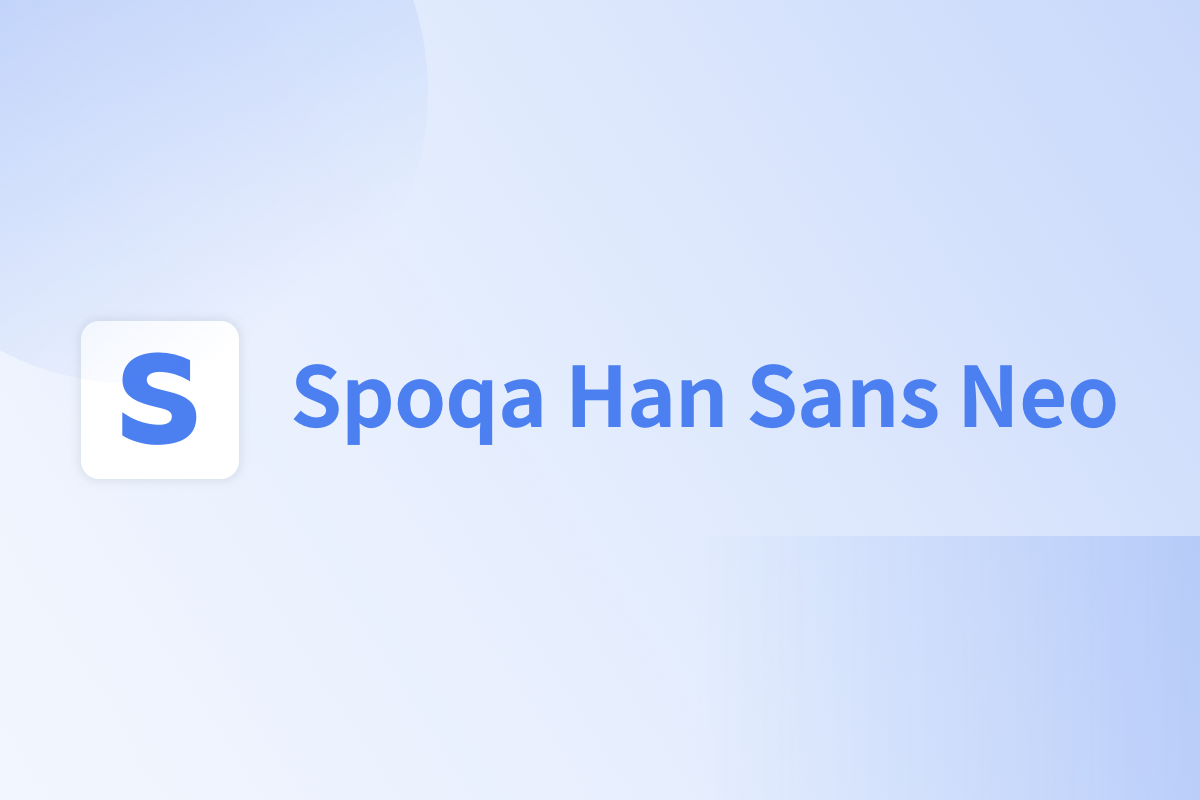
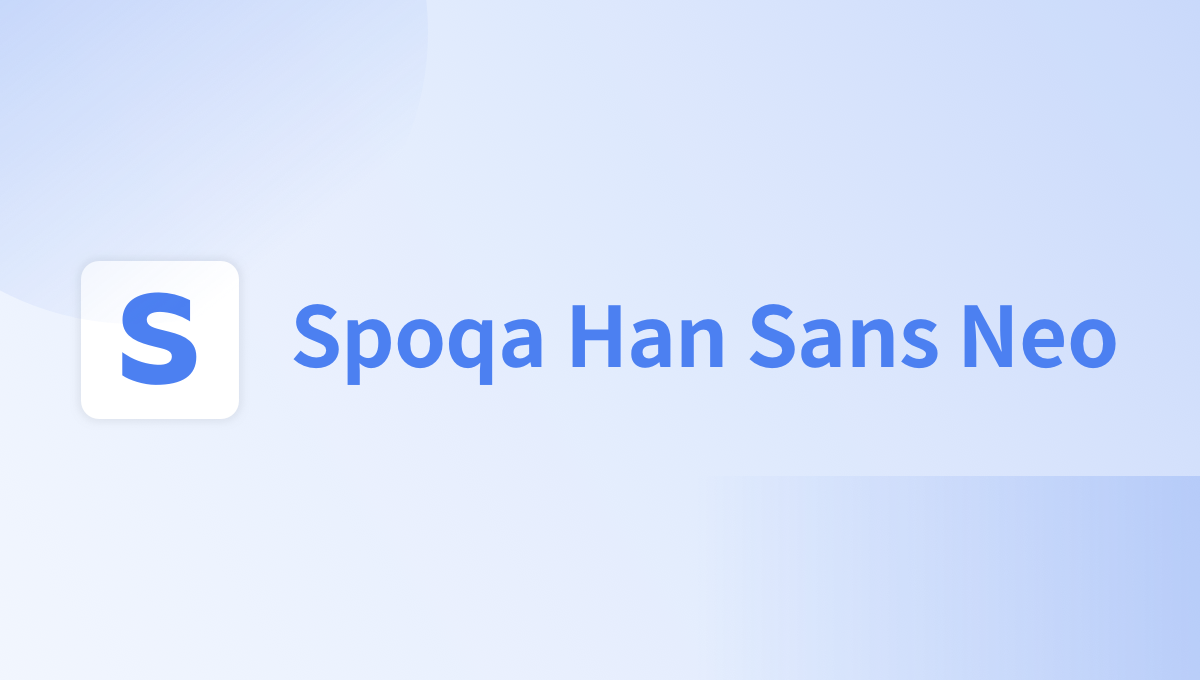
newneek thumbnail update

diff --git a/_projects/2024-08-20-newneek.md b/_projects/2024-08-20-newneek.md
@@ -3,10 +3,8 @@ title: 'Newneek Website'
 categories: 'UI/UX'
 date: 2024-08-20 00:00:00
 description: 
-featured_image: '/img/00_projects/newneek.png'
+featured_image: '/img/00_projects/newneek_thumbnail.png'
 external_url: 'https://newneek.co/'
 external_site: 
 ---
-![](/img/00_projects/newneek.png)
-
 
